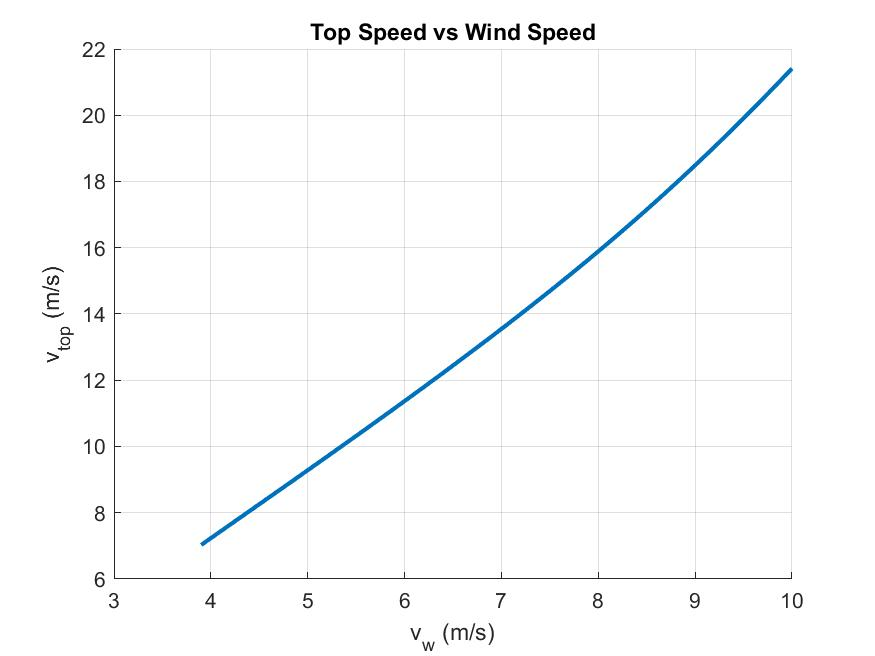
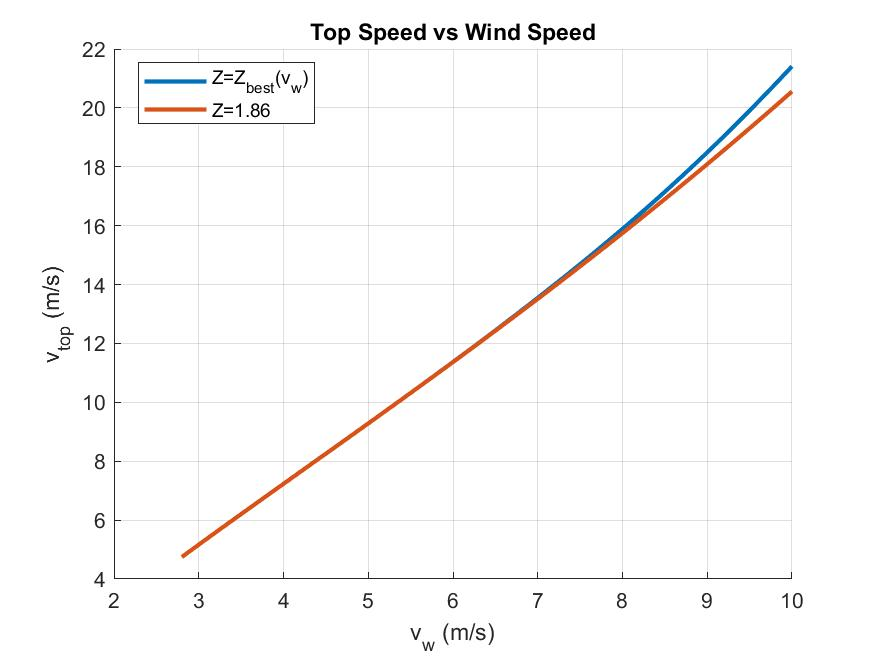
Better Comparison of Fixed Z

diff --git a/SearchWindSpeeds.m b/SearchWindSpeeds.m
@@ -1,10 +1,13 @@
-function SearchWindSpeeds(fan, v_w_range, Z_min, Z_max, F_d)
+function SearchWindSpeeds(fan, v_w_range, Z_fixed, Z_min, Z_max, F_d)
 	Z_best_range = zeros(size(v_w_range));
 	v_top_range = zeros(size(v_w_range));
+	v_fixed_range = zeros(size(v_w_range));
 	for k = 1:length(v_w_range)
-		[Z_best, v_top] = BestTransmissionRatio(Air(v_w_range(k)), fan, Z_min, Z_max, F_d);
+		air = Air(v_w_range(k));
+		[Z_best, v_top] = BestTransmissionRatio(air, fan, Z_min, Z_max, F_d);
 		Z_best_range(k) = Z_best;
 		v_top_range(k) = v_top;
+		v_fixed_range(k) = TopSpeed(Vehicle(air, fan, Z_fixed, F_d));
 	end
 	figure();
 	hold('on');
@@ -21,5 +24,7 @@ function SearchWindSpeeds(fan, v_w_range, Z_min, Z_max, F_d)
 	xlabel('v_w (m/s)');
 	ylabel('v_{top} (m/s)');
 	plot(v_w_range, v_top_range, 'LineWidth', 2);
+	plot(v_w_range, v_fixed_range, 'LineWidth', 2);
+	legend('Z=Z_{best}(v_w)', sprintf('Z=%.2f', Z_fixed), 'Location', 'Best');
 	saveas(gcf, 'Top Speed vs Wind Speed', 'jpeg');
 end

diff --git a/Main.m b/Main.m
@@ -29,7 +29,7 @@ fprintf(fileID, 'Z=%.2f v_top=%.1fm/s B=[%.1f, %.1f]m/s\n', Z_best, v_top, v_min
 
 VelocityRelations(vehicle);
 
-SearchWindSpeeds(fan, 1:0.1:10, 1, 5, F_d);
+SearchWindSpeeds(fan, 1:0.1:10, Z_best, 1, 5, F_d);
 
 toc();
 
